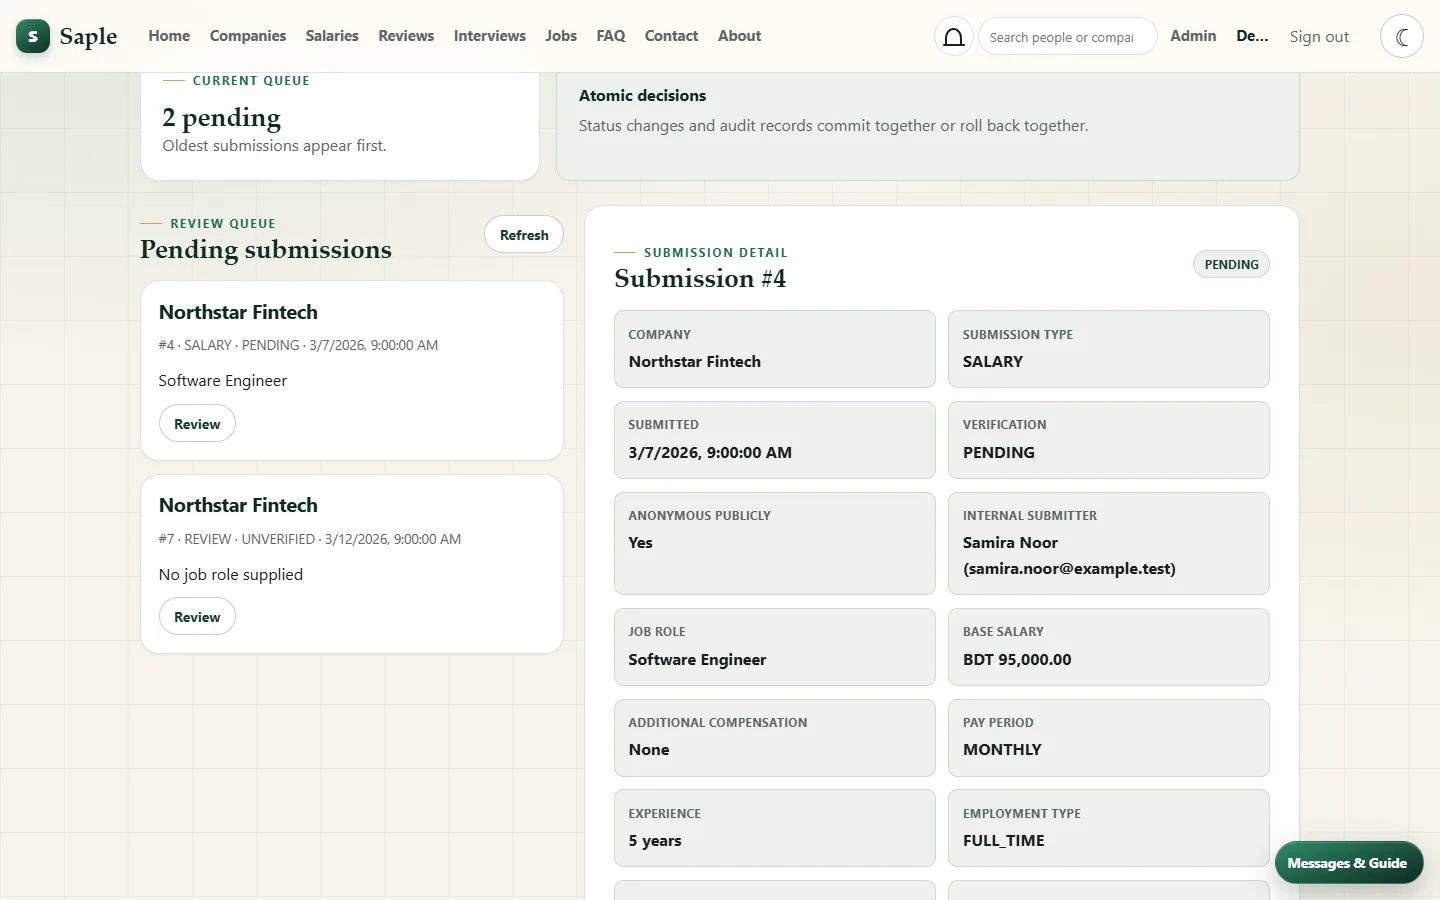
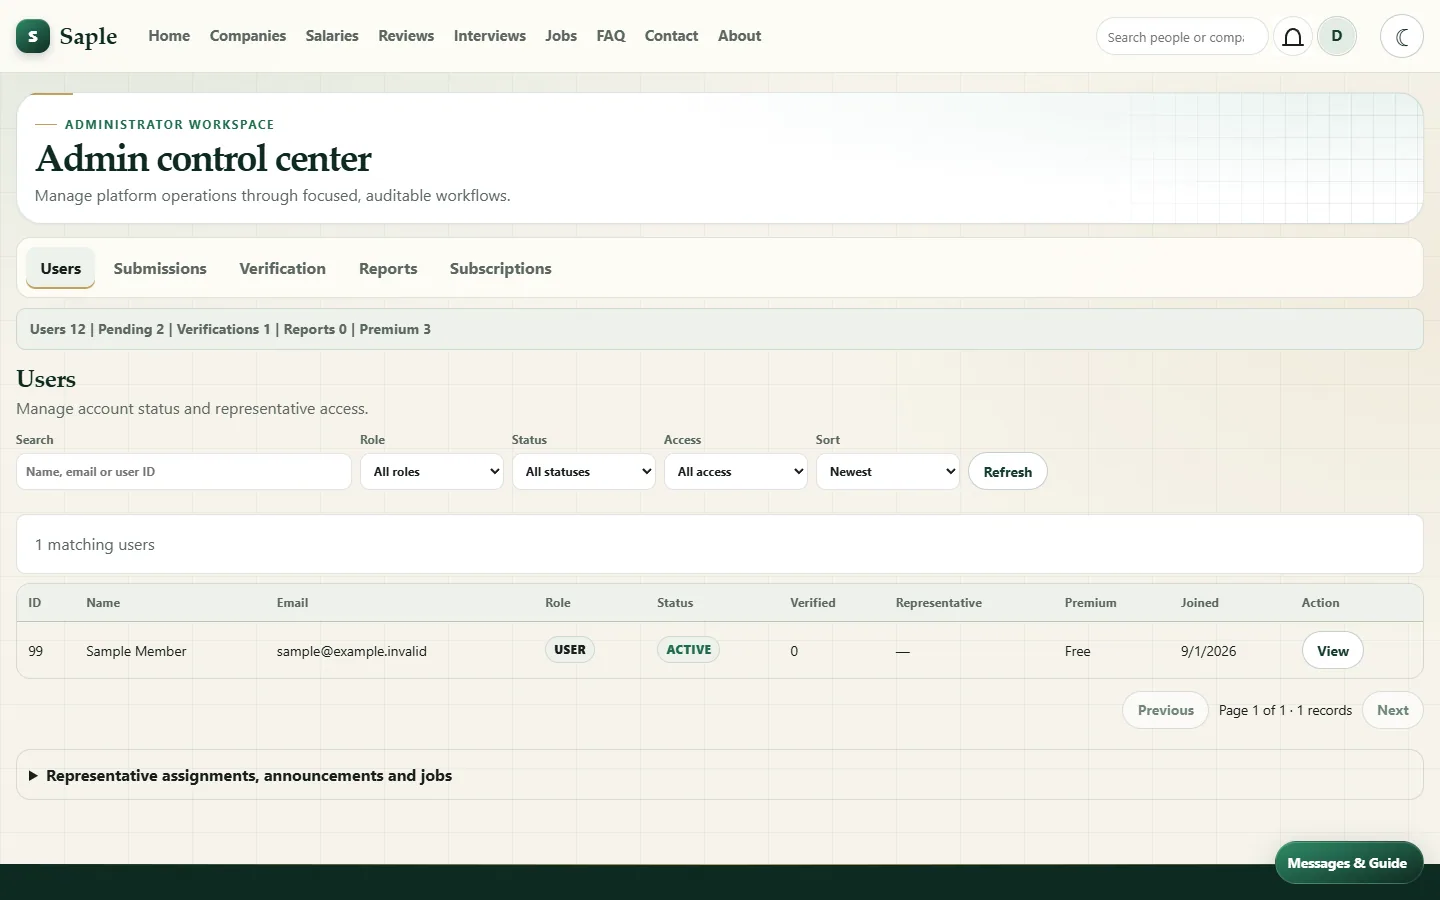
Refresh site screenshots

diff --git a/README.md b/README.md
@@ -102,62 +102,60 @@ Job applications may include an optional PDF resume, up to 2 MB. The PDF is stor
 
 ## Screenshots
 
-### Explore companies and careers
-
 <table>
 <tr>
 <td width="50%" valign="top">
-<img src="assets/screenshots/companies.webp" alt="Company directory with filters and company cards showing ratings, location and community pay" width="100%">
-<br><sub><b>Company directory</b>: search, filter and sort.</sub>
+<img src="assets/screenshots/homepage.webp" alt="Saple homepage with clearer recommendation cards beside the company search" width="100%">
+<br><sub><b>Homepage</b>: career search and live recommendations.</sub>
 </td>
 <td width="50%" valign="top">
-<img src="assets/screenshots/company-details.webp" alt="Company page showing the Verified Salary Range per role with minimum, maximum, average and contribution count" width="100%">
-<br><sub><b>Company details</b>: verified and community salary ranges.</sub>
+<img src="assets/screenshots/companies.webp" alt="Company directory filtered to Banglalink, showing its stored public logo" width="100%">
+<br><sub><b>Company directory</b>: a live stored logo and filters.</sub>
+</td>
+</tr>
+<tr>
+<td width="50%" valign="top">
+<img src="assets/screenshots/company-details.webp" alt="Banglalink company profile with its public logo and salary insights navigation" width="100%">
+<br><sub><b>Company details</b>: profile, logo and salary context.</sub>
+</td>
+<td width="50%" valign="top">
+<img src="assets/screenshots/salaries.webp" alt="Salary insights page comparing verified and community ranges" width="100%">
+<br><sub><b>Salaries</b>: verified and community ranges.</sub>
+</td>
+</tr>
+<tr>
+<td width="50%" valign="top">
+<img src="assets/screenshots/jobs.webp" alt="Jobs page showing published openings and filters" width="100%">
+<br><sub><b>Jobs</b>: published openings.</sub>
+</td>
+<td width="50%" valign="top">
+<img src="assets/screenshots/premium.webp" alt="Saple Premium page with trial terms and plan choices" width="100%">
+<br><sub><b>Premium</b>: trial and prepaid plans.</sub>
+</td>
+</tr>
+<tr>
+<td width="50%" valign="top">
+<img src="assets/screenshots/professional-profile.webp" alt="Synthetic member profile showing headline, about, experience, education, skills and Message action" width="100%">
+<br><sub><b>Professional profile</b>: synthetic member data.</sub>
+</td>
+<td width="50%" valign="top">
+<img src="assets/screenshots/messages-guide.webp" alt="Synthetic Premium Guide conversation with a PRO badge in the shared Messages and Guide panel" width="100%">
+<br><sub><b>Messages and Guide</b>: synthetic PRO demo.</sub>
+</td>
+</tr>
+<tr>
+<td width="50%" valign="top">
+<img src="assets/screenshots/admin-dashboard.webp" alt="Admin control center displaying a synthetic sample account" width="100%">
+<br><sub><b>Admin control center</b>: synthetic account data.</sub>
+</td>
+<td width="50%" valign="top">
+<img src="assets/screenshots/contact.webp" alt="Contact page with the developer's supplied portrait in a green and gold frame" width="100%">
+<br><sub><b>Contact</b>: the developer portrait.</sub>
 </td>
 </tr>
 </table>
 
-### Search and connect
-
-<table>
-<tr>
-<td width="50%" valign="top">
-<img src="assets/screenshots/home-search.webp" alt="Homepage search showing live company suggestions for the word bank" width="100%">
-<br><sub><b>Homepage search</b>: company suggestions while you type.</sub>
-</td>
-<td width="50%" valign="top">
-<img src="assets/screenshots/global-search.webp" alt="Navigation search results grouped into People and Companies" width="100%">
-<br><sub><b>Global search</b>: people and companies from any page.</sub>
-</td>
-</tr>
-<tr>
-<td width="50%" valign="top">
-<img src="assets/screenshots/professional-profile.webp" alt="Member profile with headline, about, experience, education, skills and a Message button" width="100%">
-<br><sub><b>Professional profile</b>: experience, education and skills.</sub>
-</td>
-<td width="50%" valign="top">
-<img src="assets/screenshots/messages-guide.webp" alt="Messages and Saple Guide panel open on a conversation with a company representative" width="100%">
-<br><sub><b>Messages and Saple Guide</b>: one panel for both.</sub>
-</td>
-</tr>
-</table>
-
-### Work and moderate
-
-<table>
-<tr>
-<td width="50%" valign="top">
-<img src="assets/screenshots/jobs.webp" alt="Jobs page listing open vacancies with salary, work mode and application deadline" width="100%">
-<br><sub><b>Jobs</b>: published vacancies still inside their deadline.</sub>
-</td>
-<td width="50%" valign="top">
-<img src="assets/screenshots/admin-dashboard.webp" alt="Administrator moderation workspace with the pending queue and a salary submission's details" width="100%">
-<br><sub><b>Admin moderation</b>: review queue with full submission context.</sub>
-</td>
-</tr>
-</table>
-
-<sub>Public pages were captured from the live site. The profile, messages, jobs, search and admin views use the synthetic demo accounts.</sub>
+<sub>Public pages were captured from the deployed site. The profile, Guide and admin views use synthetic browser fixtures; they contain no live private account data.</sub>
 
 ## Database design
 
